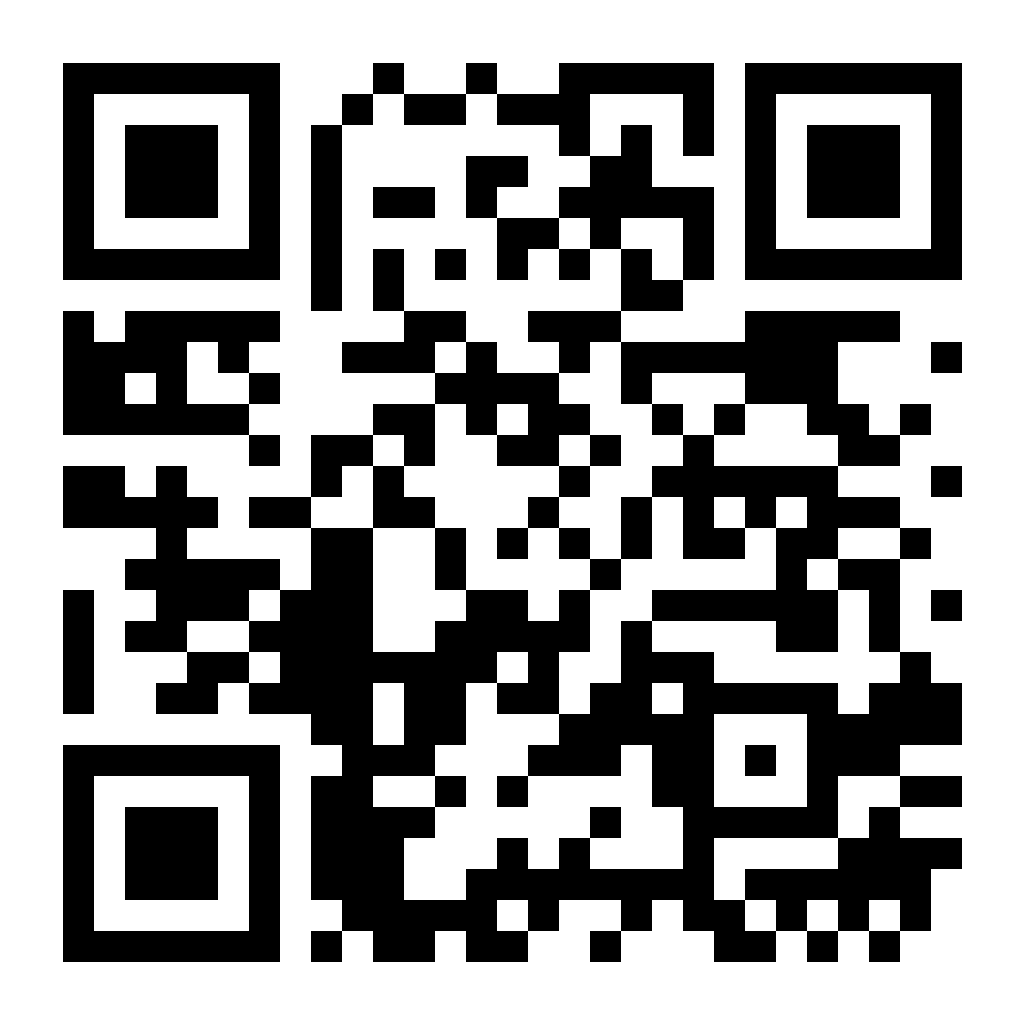
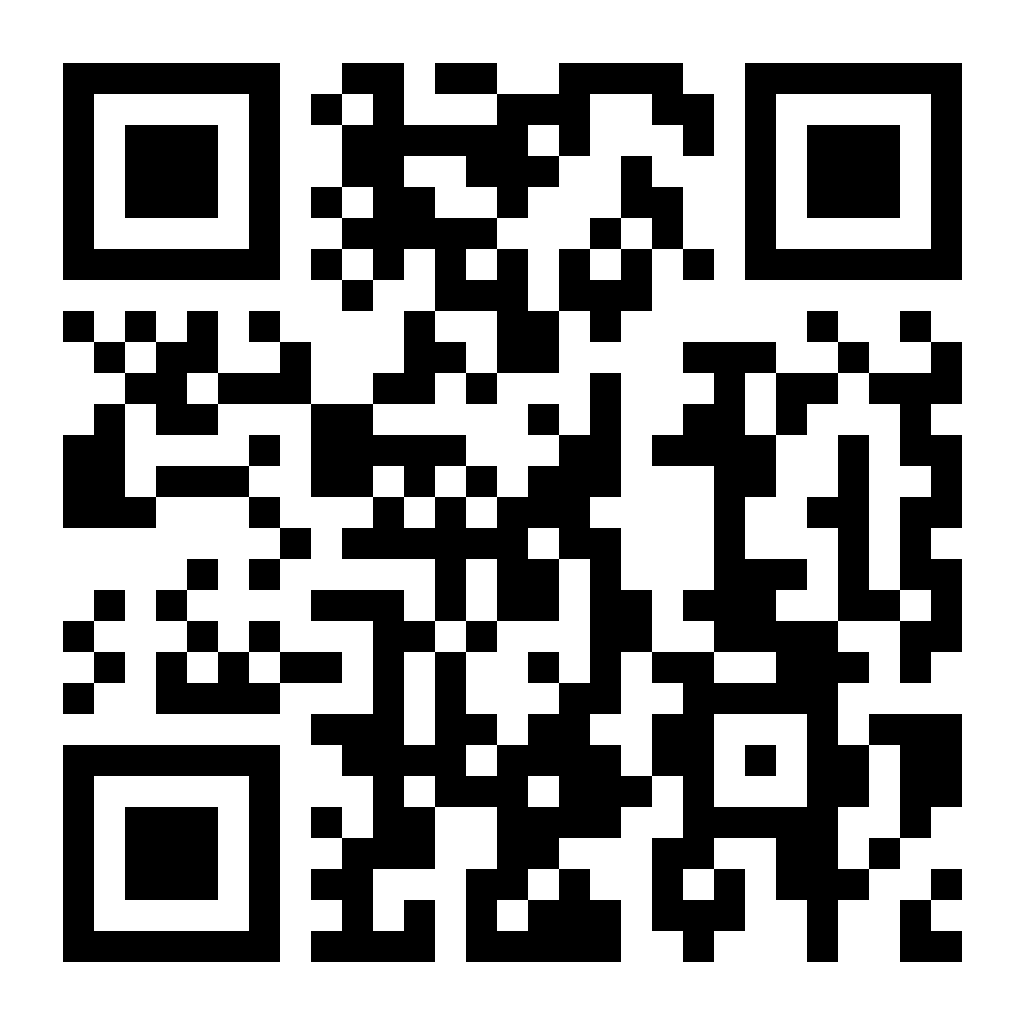
Dominio citaller.es: QR a la direccion corta y documentacion
citaller.es sirve produccion sin redireccion y www redirige a ella (308).
QR regenerados a https://citaller.es/<slug> y comprobados decodificando el
PNG. Correo hola@citaller.es con reenvio al Gmail de Miguel. Responsable de
la politica: "CiTaller" por ahora, por decision de Miguel.

Changed region(s): [[0.0625, 0.0625, 0.9375, 0.9375]]

diff --git a/docs/operaciones.md b/docs/operaciones.md
@@ -28,9 +28,14 @@
 6. Verificar con `docs/checklist-manual.md` (en la fase 3.7 se hizo con un taller de prueba creado solo desde `_plantilla`).
 
 ## Promoción: Google Business Profile y QR
-- **Enlace de reserva**: la URL pública del taller es `https://citaller.vercel.app/<slug>` (con dominio propio, la misma ruta). En Google Business Profile (https://business.google.com → el perfil del taller → "Editar perfil" → "Reservas" / "Enlaces de citas", el nombre cambia según la versión) se pega esa URL como enlace de citas; Google la muestra como botón "Reservar" en la ficha de Maps y en la búsqueda. Sin un proveedor de reservas integrado con Google, este enlace es la vía: el cliente pulsa y llega al formulario del taller.
+- **Enlace de reserva**: la URL pública del taller es `https://citaller.es/<slug>` (dominio propio desde el 21-sep-2026; `https://citaller.vercel.app/<slug>` sigue funcionando y no se retira, así que los QR impresos antes valen). En Google Business Profile (https://business.google.com → el perfil del taller → "Editar perfil" → "Reservas" / "Enlaces de citas", el nombre cambia según la versión) se pega esa URL como enlace de citas; Google la muestra como botón "Reservar" en la ficha de Maps y en la búsqueda. Sin un proveedor de reservas integrado con Google, este enlace es la vía: el cliente pulsa y llega al formulario del taller.
 - **QR del mostrador**: `node scripts/qr.mjs` (todos los talleres) o `node scripts/qr.mjs <slug>`. Genera `clientes/<slug>/assets/qr-reserva.svg` (para imprenta, escala sin perder calidad) y `qr-reserva.png` (1024 px, para imprimir en casa o pegar en un cartel). Codifican exactamente `<CITALLER_APP_URL>/<slug>`; `npm test` lo comprueba decodificando el PNG. Se pueden pedir a la imprenta con un texto tipo "Reserva tu cita escaneando el código" y probarlos con la cámara del móvil antes de imprimir en cantidad.
 - Si algún día cambia el dominio, se vuelve a ejecutar el script; los QR ya impresos siguen funcionando mientras la URL antigua de Vercel siga activa (no se retira).
+
+## Dominio y correo (desde el 21-sep-2026)
+- **Dominio `citaller.es`**, comprado en **Hostinger** (hPanel), que es quien lleva el DNS. En Vercel → proyecto `citaller` → Settings → Domains están las tres direcciones: `citaller.es` sirve producción (opción "Connect to an environment" → Production), `www.citaller.es` redirige a ella con 308, y `citaller.vercel.app` sigue activa como respaldo. En Hostinger: registro A del apex apuntando a Vercel y CNAME `www` → `cname.vercel-dns.com`. Vercel marca `www` con "DNS Change Recommended" porque prefiere su CNAME específico; es inofensivo mientras `www` solo redirija.
+- **Orden de los cambios si algún día se cambia de dominio**: primero Vercel + DNS, después `secrets set CITALLER_APP_URL` (y `CITALLER_ORIGENES_EXTRA` con las URLs antiguas que sigan en uso, para no romper la vuelta del OAuth de Google), después `node scripts/qr.mjs`, y las plantillas de Meta al final porque quedan atadas al dominio para siempre.
+- **Correo `hola@citaller.es`**: buzón en Hostinger (Emails → `citaller.es` → Buzones) con un **reenviador** a la cuenta personal de Gmail de Miguel (Emails → la fila del dominio → Buzones → Reenviadores). Los registros MX de `citaller.es` apuntan a `mx1/mx2.hostinger.com`; el correo y la web son independientes. **Aviso de facturación**: el plan es "Starter Business Email Free Trial" y **vence el 21-oct-2026 con renovación automática activada**. Si no se quiere pagar, desactivar la renovación en el menú de tres puntos de esa fila y cambiar `CORREO_CONTACTO` en `src/features/sitio/contacto.ts`.
 
 ## Página principal y política de privacidad
 - `/` (`src/features/sitio/InicioPage.tsx`) explica CiTaller a un taller que llega por curiosidad y es la página de inicio que Google exige para publicar la app de Calendar. `/privacidad` (`PrivacidadPage.tsx`) es la política de privacidad: RGPD para los datos que dejan los clientes y la declaración de "uso limitado" de las API de Google. Los clientes llegan a ella desde la firma "Reservas gestionadas con CiTaller · Privacidad" de las pantallas de reserva y de cita. Las URLs antiguas `/?taller=N` siguen redirigiendo.

diff --git a/docs/plan.md b/docs/plan.md
@@ -221,9 +221,10 @@ Después de producción (para que lo vea en la web de verdad) y **antes** de con
 
 Miguel ya tiene comprado **`citaller.es`** (21-sep). Mientras la app de Google siga en "Prueba", el permiso de cada taller **caduca cada 7 días** (Rik and Roll: conectado el 17-sep, caduca el 24) y las citas dejan de entrar en su calendario sin avisar. Con dominio propio el camino es el estándar.
 
-- [ ] Dominio en Vercel: añadir `citaller.es` (y `www.citaller.es` redirigiendo) al proyecto `citaller` y poner en el registrador los registros DNS que Vercel indique. `citaller.vercel.app` sigue funcionando (los enlaces y QR antiguos no se rompen).
-- [ ] Miguel: `npx supabase secrets set CITALLER_APP_URL=https://citaller.es` (lo lee `_shared/origenes.ts`: enlaces de la cita en WhatsApp y vueltas del OAuth). Claude: regenerar los QR con `CITALLER_APP_URL=https://citaller.es node scripts/qr.mjs` cuando el dominio resuelva, y `docs/operaciones.md`.
-- [x] Claude (21-sep): página principal en `/` (`src/features/sitio/InicioPage.tsx`) y política de privacidad en `/privacidad` (`PrivacidadPage.tsx`: RGPD y "uso limitado" de las API de Google), enlazada desde la firma de las pantallas del cliente. Nombre del responsable, buzón de contacto y fecha en `src/features/sitio/contacto.ts`: **Miguel confirma el nombre y el buzón** (hoy `hola@citaller.es`). Prueba: `tests/e2e/sitio.spec.ts`.
+- [x] **Dominio operativo (21-sep)**: `citaller.es` sirve producción sin redirección y `www.citaller.es` redirige a ella con 308. El DNS está en Hostinger: registro A del apex a Vercel y CNAME `www` → `cname.vercel-dns.com`, que deja un aviso "DNS Change Recommended" inofensivo porque `www` solo redirige. `citaller.vercel.app` sigue activa, así que los enlaces y QR antiguos no se rompen. Correo `hola@citaller.es` creado en Hostinger (plan "Starter Business Email Free Trial": **vence el 21-oct-2026 con renovación automática activada**) con reenviador a la cuenta de Gmail de Miguel.
+- [ ] Miguel: `npx supabase secrets set CITALLER_APP_URL=https://citaller.es CITALLER_ORIGENES_EXTRA=https://citaller.vercel.app` (los lee `_shared/origenes.ts`: enlaces de la cita en los WhatsApp y orígenes válidos para la vuelta del OAuth; el segundo evita que "Conectar Google Calendar" falle si alguien entra al panel por la URL de Vercel).
+- [x] Claude (21-sep): QR regenerados a `https://citaller.es/<slug>` y decodificados del PNG para comprobarlo (`clientes/{speedbikes,rikandroll}/assets/qr-reserva.{svg,png}`). Listos para imprenta.
+- [x] Claude (21-sep): página principal en `/` (`src/features/sitio/InicioPage.tsx`) y política de privacidad en `/privacidad` (`PrivacidadPage.tsx`: RGPD y "uso limitado" de las API de Google), enlazada desde la firma de las pantallas del cliente. Nombre del responsable, buzón y fecha en `src/features/sitio/contacto.ts`. El 21-sep Miguel eligió dejar el responsable como **"CiTaller"** (sin nombre ni NIF; pendiente de completar) y el buzón `hola@citaller.es`. Prueba: `tests/e2e/sitio.spec.ts`.
 - [ ] Miguel: verificar `citaller.es` en Google Search Console (registro TXT en el DNS); en Google Cloud → pantalla de consentimiento: marca, enlaces de home y privacidad en `citaller.es`, dominio autorizado `citaller.es`, y **Publicar aplicación**.
 - [ ] Comprobar el efecto real reconectando el taller de pruebas: el permiso ya no caduca a los 7 días (los talleres verán "Google no ha verificado esta aplicación" al conectar; con el volumen actual sobra).
 - [ ] Las plantillas de Meta (cuando Rik and Roll tenga cuenta) se crean ya con el botón de URL apuntando a `citaller.es`: no se pueden editar después.
